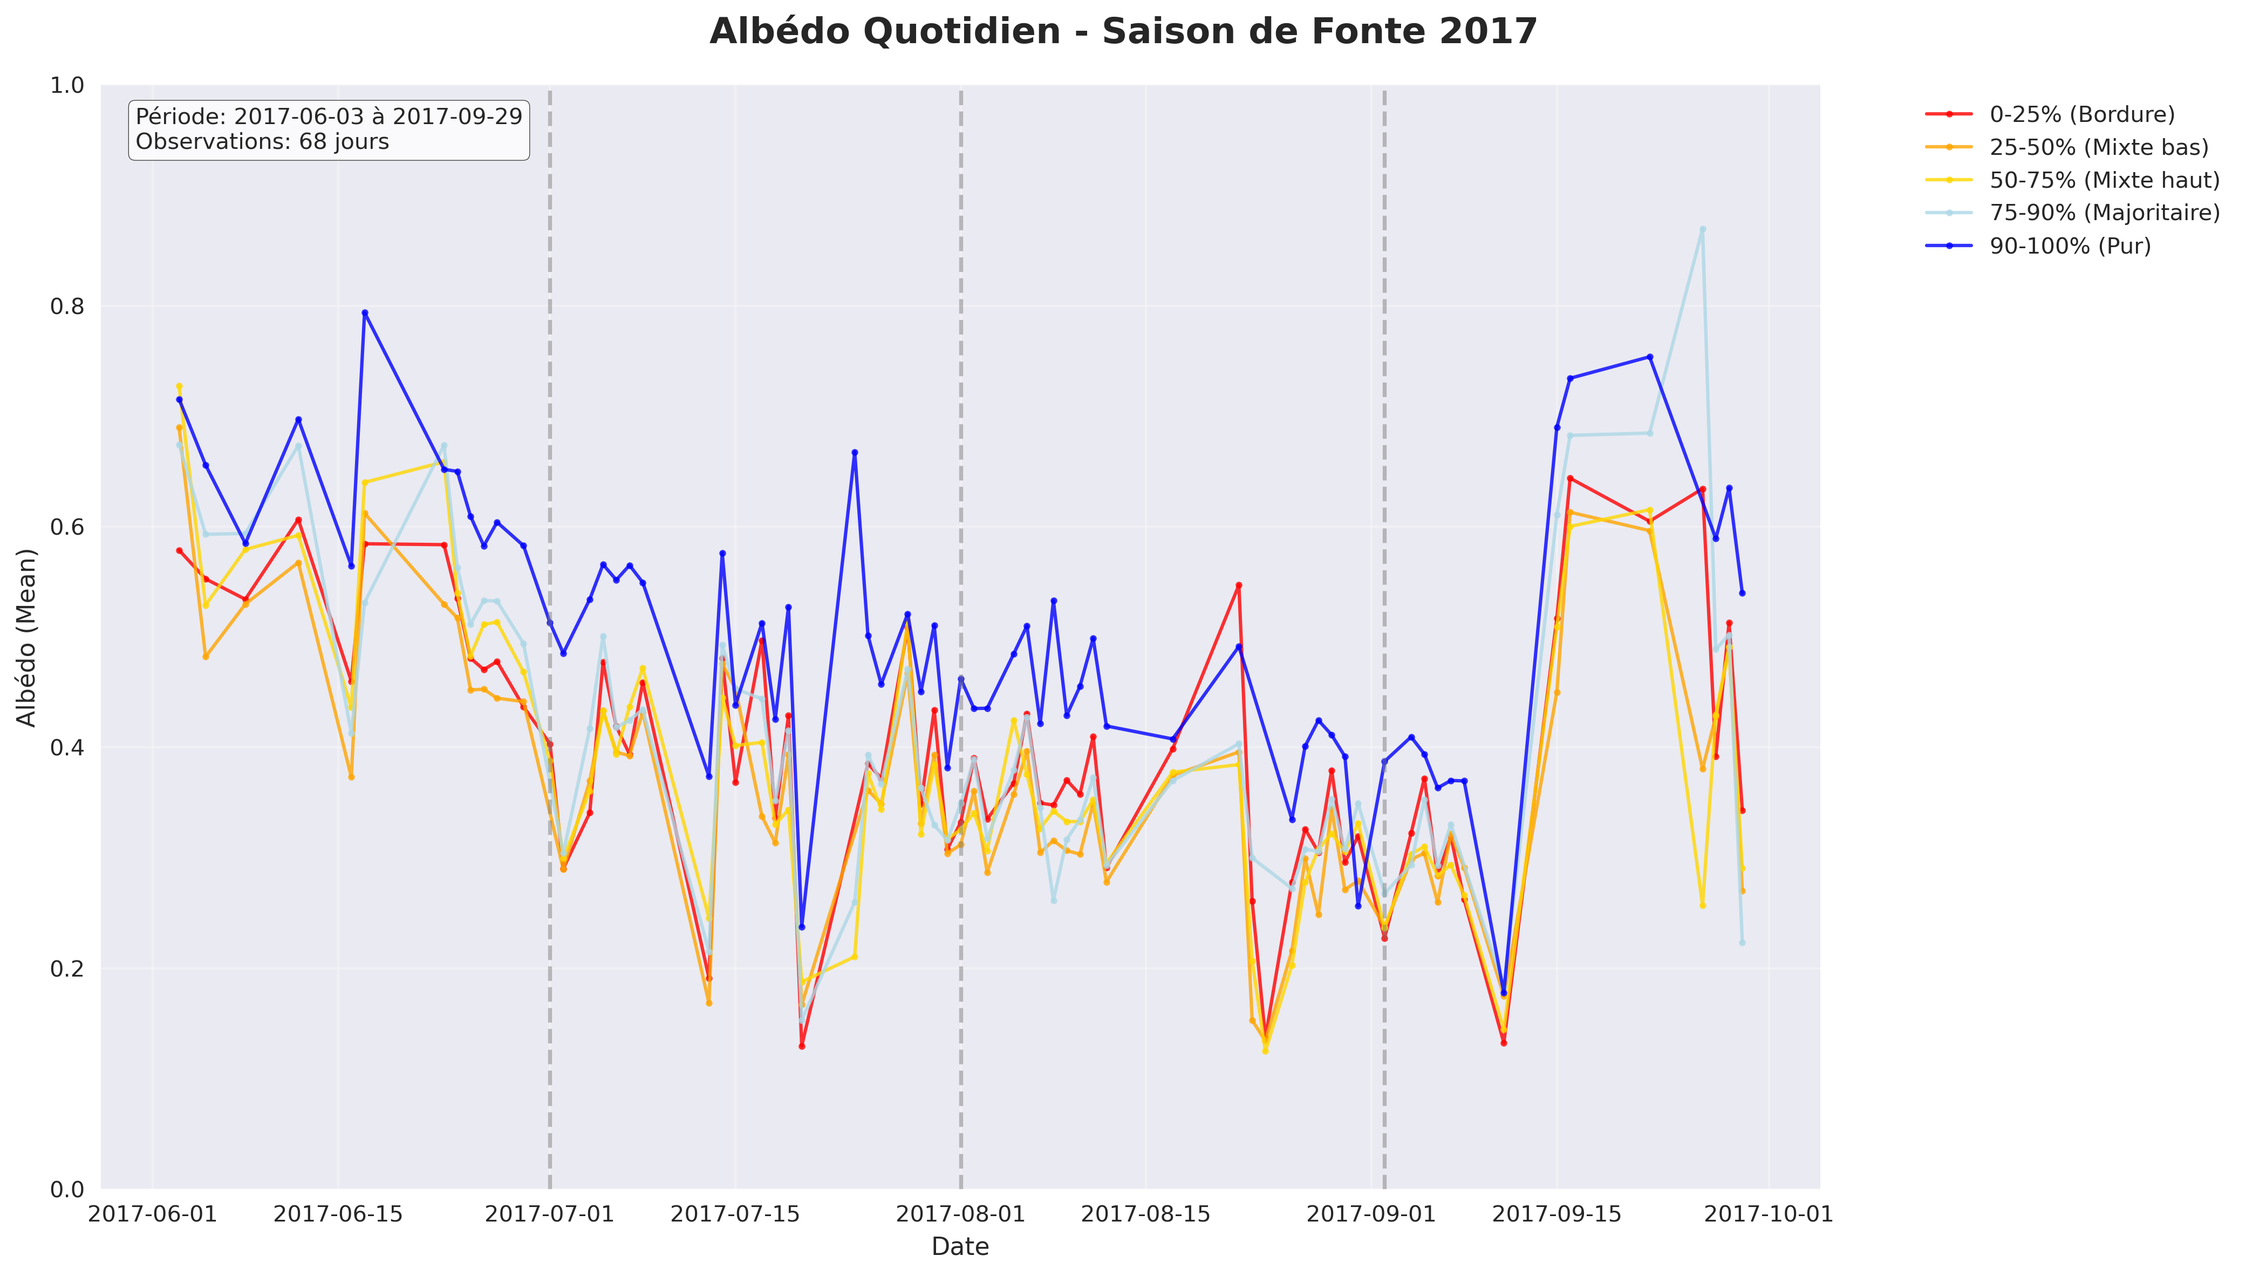
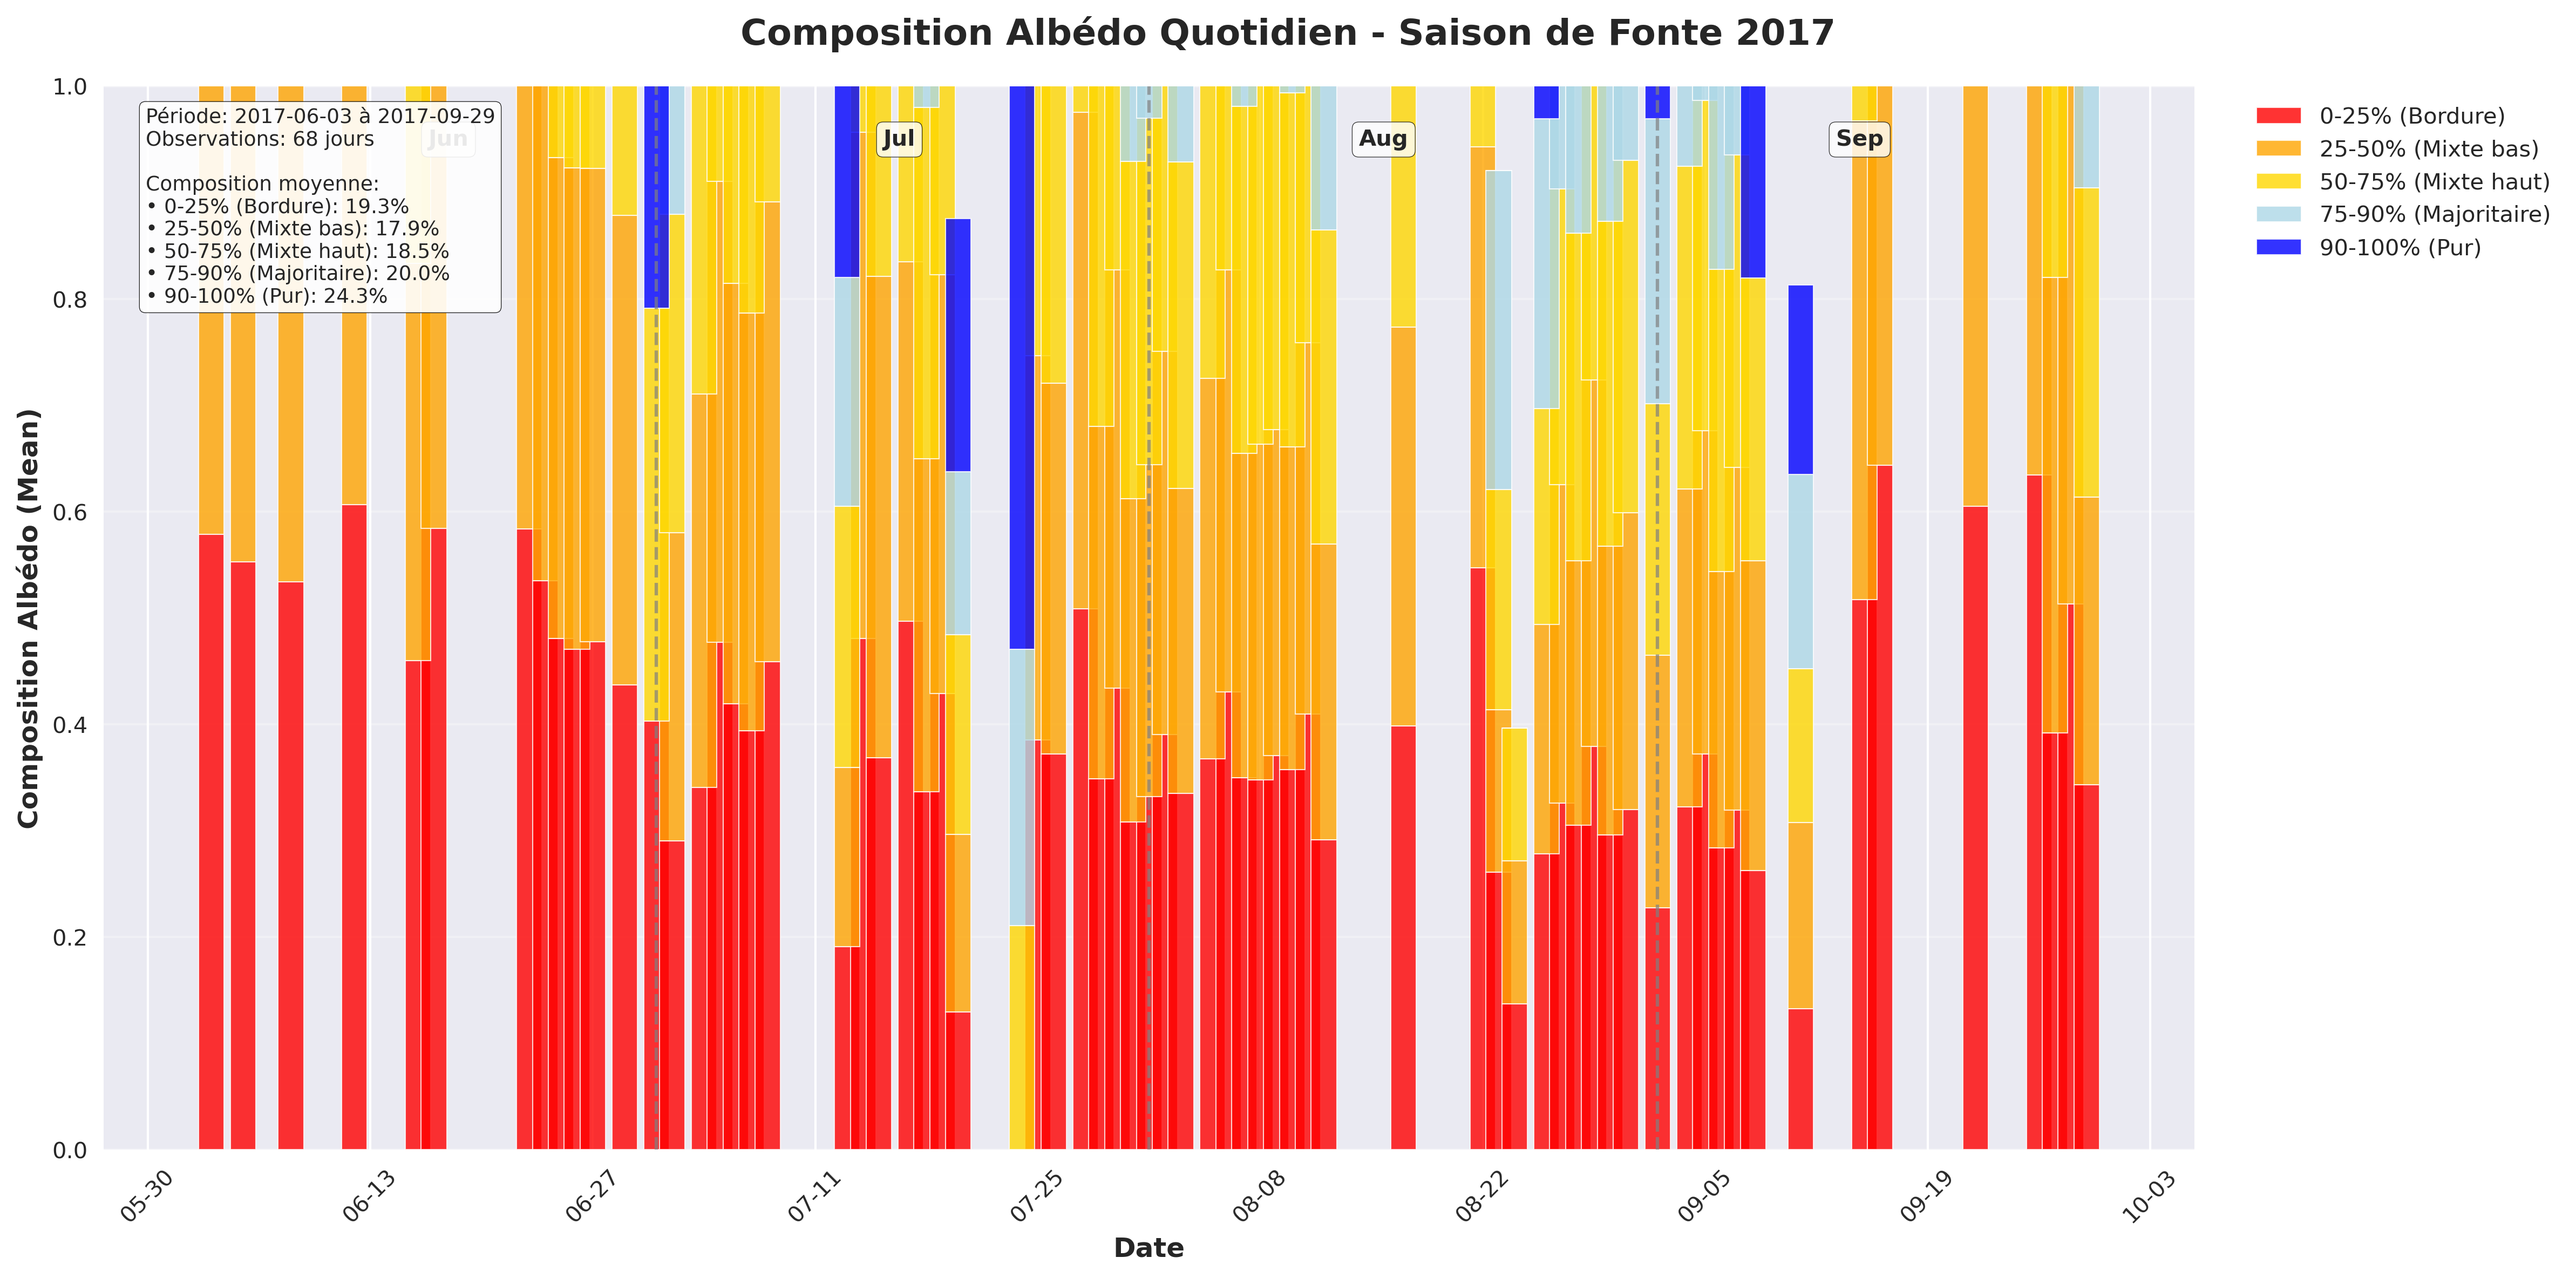
Replace stacked bar graphs with clean scatter plots for daily melt season
- Convert from complex stacked bars to simple, clean scatter plots
- Each fraction shows as colored points with optional trend lines
- Added light moving average trends for better pattern visibility
- Improved visual styling with better spacing and transparency
- Simplified statistics showing mean values per fraction
- Much cleaner and more readable than overlapping bars
- Maintains all fraction data while improving aesthetics

🤖 Generated with [Claude Code](https://claude.ai/code)

diff --git a/visualization/daily_plots.py b/visualization/daily_plots.py
@@ -51,68 +51,54 @@ def create_daily_albedo_plots(data_handler, output_dir):
         
         # Create the plot
         fig, ax = plt.subplots(figsize=(16, 8))
-        fig.suptitle(f'Composition Albédo Quotidien - Saison de Fonte {year}', 
+        fig.suptitle(f'Albédo Quotidien par Fraction - Saison de Fonte {year}', 
                      fontsize=16, fontweight='bold')
         
-        # Prepare data for stacked bar plot
-        dates = year_data['date'].unique()
-        dates = pd.to_datetime(dates).sort_values()
-        
-        # Create a matrix for stacked bars
-        fraction_data = {}
-        for fraction in FRACTION_CLASSES:
+        # Plot scatter points for each fraction
+        for i, fraction in enumerate(FRACTION_CLASSES):
             col_mean = f"{fraction}_{ANALYSIS_VARIABLE}"
             if col_mean in year_data.columns:
-                # Align data with dates
-                fraction_values = []
-                for date in dates:
-                    day_data = year_data[year_data['date'] == date]
-                    if len(day_data) > 0 and not day_data[col_mean].isna().all():
-                        fraction_values.append(day_data[col_mean].iloc[0])
-                    else:
-                        fraction_values.append(0)  # Fill missing with 0 for stacking
-                fraction_data[fraction] = fraction_values
-            else:
-                fraction_data[fraction] = [0] * len(dates)
-        
-        # Create stacked bar chart
-        bar_width = 1.0  # Full width for daily bars
-        bottom_values = np.zeros(len(dates))
-        
-        for i, fraction in enumerate(FRACTION_CLASSES):
-            values = fraction_data[fraction]
-            color = FRACTION_COLORS.get(fraction, f'C{i}')
-            
-            # Only plot bars where there's actual data
-            non_zero_mask = np.array(values) > 0
-            if np.any(non_zero_mask):
-                ax.bar(dates, values, bottom=bottom_values, 
-                      width=bar_width, label=CLASS_LABELS[fraction],
-                      color=color, alpha=0.8, edgecolor='white', linewidth=0.5)
-            
-            bottom_values += np.array(values)
+                # Get valid data for this fraction
+                fraction_data = year_data[year_data[col_mean].notna()].copy()
+                
+                if len(fraction_data) > 0:
+                    color = FRACTION_COLORS.get(fraction, f'C{i}')
+                    
+                    # Create scatter plot
+                    ax.scatter(fraction_data['date'], fraction_data[col_mean],
+                             label=CLASS_LABELS[fraction], color=color, 
+                             alpha=0.7, s=30, edgecolors='white', linewidth=0.5)
+                    
+                    # Optional: Add light trend line for each fraction
+                    if len(fraction_data) > 5:
+                        # Simple moving average for trend
+                        window = min(7, len(fraction_data) // 3)  # 7-day or 1/3 of data
+                        if window >= 2:
+                            fraction_data_sorted = fraction_data.sort_values('date')
+                            rolling_mean = fraction_data_sorted[col_mean].rolling(window=window, center=True).mean()
+                            ax.plot(fraction_data_sorted['date'], rolling_mean, 
+                                   color=color, alpha=0.3, linewidth=2, linestyle='-')
         
         # Configure the plot
         ax.set_xlabel('Date', fontsize=12, fontweight='bold')
-        ax.set_ylabel(f'Composition Albédo ({ANALYSIS_VARIABLE.capitalize()})', fontsize=12, fontweight='bold')
+        ax.set_ylabel(f'Albédo ({ANALYSIS_VARIABLE.capitalize()})', fontsize=12, fontweight='bold')
         ax.set_ylim([0, 1])
         ax.legend(bbox_to_anchor=(1.02, 1), loc='upper left', fontsize=10)
-        ax.grid(True, alpha=0.3, axis='y')  # Only horizontal grid for better readability
+        ax.grid(True, alpha=0.3)  # Grid for better readability
         
         # Improve date formatting on x-axis
         import matplotlib.dates as mdates
         ax.xaxis.set_major_formatter(mdates.DateFormatter('%m-%d'))
-        ax.xaxis.set_major_locator(mdates.WeekdayLocator(interval=2))
+        ax.xaxis.set_major_locator(mdates.WeekdayLocator(interval=1))  # More frequent for scatter
         plt.setp(ax.xaxis.get_majorticklabels(), rotation=45)
         
-        # Add vertical lines to separate months with better styling
-        month_colors = {'Jun': '#ffeeee', 'Jul': '#eeffee', 'Aug': '#eeeeff', 'Sep': '#ffffee'}
+        # Add vertical lines to separate months
         month_names = {6: 'Jun', 7: 'Jul', 8: 'Aug', 9: 'Sep'}
         
         for month in [7, 8, 9]:
             month_start = year_data[year_data['month'] == month]['date'].min()
             if not pd.isna(month_start):
-                ax.axvline(x=month_start, color='gray', linestyle='--', alpha=0.7, linewidth=1.5)
+                ax.axvline(x=month_start, color='gray', linestyle='--', alpha=0.5, linewidth=1)
                 
         # Add month labels at the top
         for month in [6, 7, 8, 9]:
@@ -121,24 +107,22 @@ def create_daily_albedo_plots(data_handler, output_dir):
                 month_center = month_data['date'].mean()
                 ax.text(month_center, 0.95, month_names[month], 
                        ha='center', va='center', transform=ax.get_xaxis_transform(),
-                       bbox=dict(boxstyle='round,pad=0.3', facecolor='white', alpha=0.8),
-                       fontsize=10, fontweight='bold')
+                       bbox=dict(boxstyle='round,pad=0.2', facecolor='lightgray', alpha=0.7),
+                       fontsize=9, fontweight='bold')
         
-        # Add enhanced statistics for composition analysis
+        # Add simplified statistics
         stats_text = f"Période: {year_data['date'].min().strftime('%Y-%m-%d')} à {year_data['date'].max().strftime('%Y-%m-%d')}\n"
         stats_text += f"Observations: {len(year_data)} jours\n"
         
-        # Calculate composition statistics
-        total_albedo_mean = sum([np.mean([v for v in fraction_data[f] if v > 0]) if any(v > 0 for v in fraction_data[f]) else 0 
-                                for f in FRACTION_CLASSES])
-        if total_albedo_mean > 0:
-            stats_text += "\nComposition moyenne:"
-            for fraction in FRACTION_CLASSES:
-                values = [v for v in fraction_data[fraction] if v > 0]
-                if values:
-                    mean_val = np.mean(values)
-                    percentage = (mean_val / total_albedo_mean) * 100 if total_albedo_mean > 0 else 0
-                    stats_text += f"\n• {CLASS_LABELS[fraction]}: {percentage:.1f}%"
+        # Calculate basic statistics for each fraction
+        stats_text += "\nValeurs moyennes:"
+        for fraction in FRACTION_CLASSES:
+            col_mean = f"{fraction}_{ANALYSIS_VARIABLE}"
+            if col_mean in year_data.columns:
+                values = year_data[col_mean].dropna()
+                if len(values) > 0:
+                    mean_val = values.mean()
+                    stats_text += f"\n• {CLASS_LABELS[fraction]}: {mean_val:.3f}"
         
         ax.text(0.02, 0.98, stats_text, transform=ax.transAxes, 
                 verticalalignment='top', fontsize=9,
